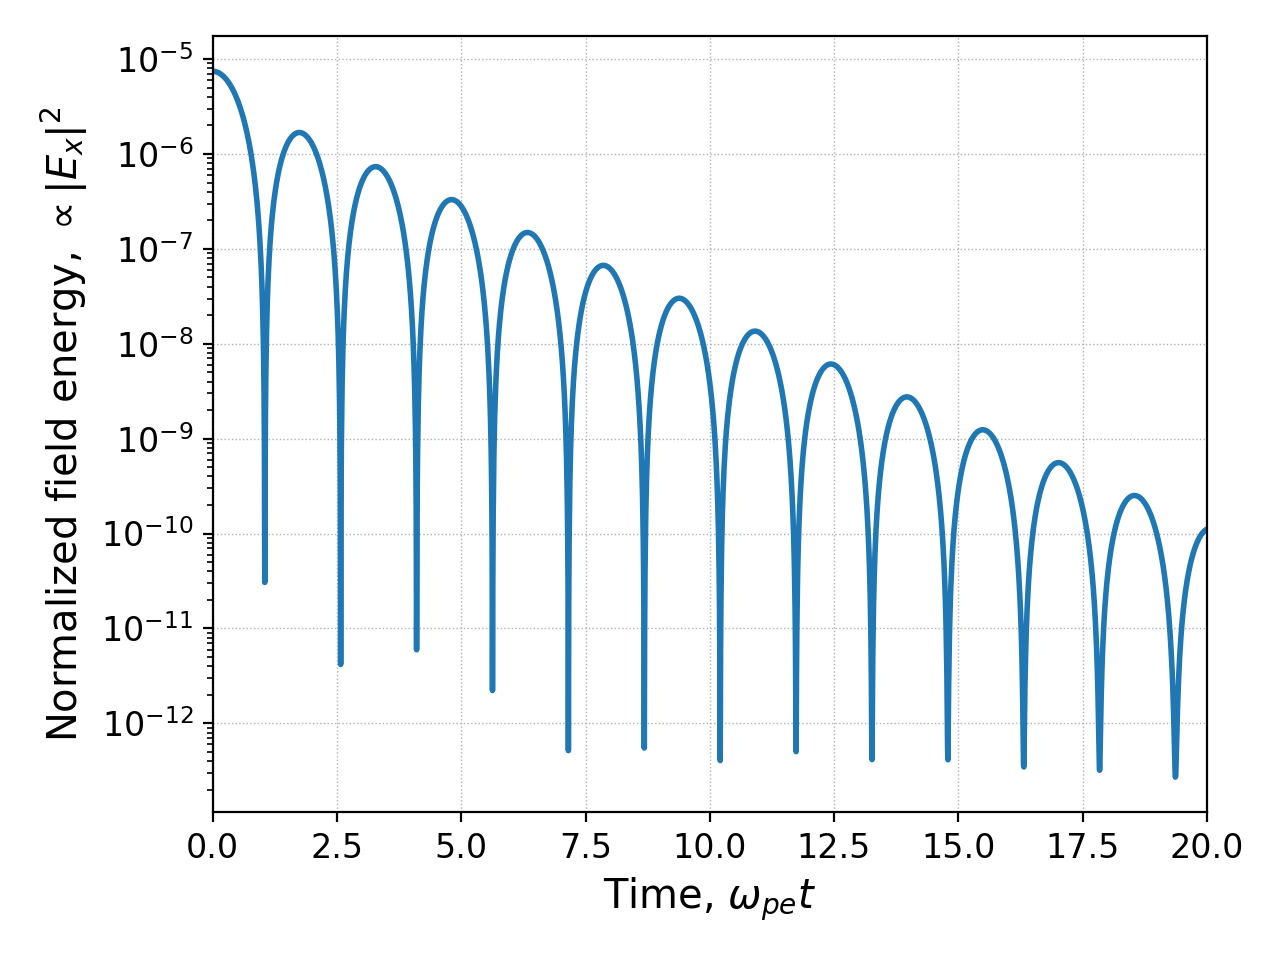
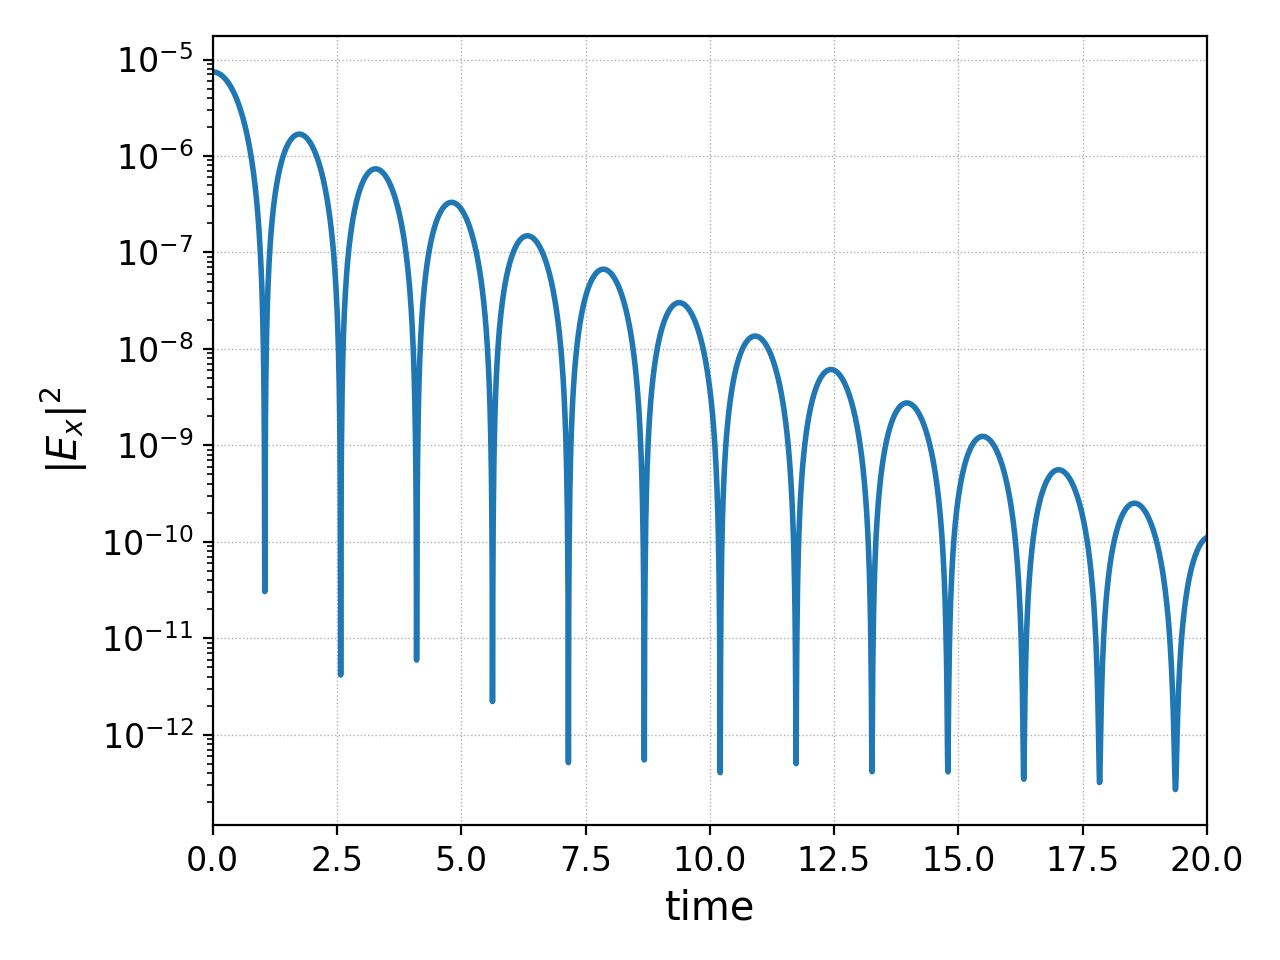
Change post-gkyl part of qs_intro

diff --git a/source/quickstart/introduction.rst b/source/quickstart/introduction.rst
@@ -182,7 +182,8 @@ You should see the program printing to screen like this:
 
 Gkeyll prints a number every 1% of the simulation, and a longer message with the total
 number of time steps taken, the simulation time and the latest time step size every 10%
-of of the simulation. As it progresses it writes out diagnostic files.
+of the simulation. This particular simulation ran in 74 seconds on a 2015 MacBookPro. As
+it progressed it wrote out diagnostic files.
 
 Plotting
 --------
@@ -205,22 +206,22 @@ In order to plot the initial distribution function of the electrons we will use
 
   pgkyl -f vm-damp_elc_0.bp interpolate plot
 
-This produces the 2D plot of the initial Maxwellian distribution given below. The
-:ref:`pg_cmd-plot` command also supports additional flags to add labels.
+This produces the 2D plot of the initial Maxwellian distribution given below.
 
 .. figure:: figures/vm-damp_elc_0.png
    :scale: 40 %
    :align: center
 
-   Initial distribution function, :math:`f_e(x,v,t=0)`.
+   Initial electron distribution function, :math:`f_e(x,v,t=0)`.
 
 We can also examine the electrostatic energy in the simulation. This most clearly
-exhibits the wave energy decaying as the collisionless damping takes effect. For this
-purpose we use the following ``postgkyl`` command:
+exhibits the wave energy decaying as the collisionless damping takes effect. For
+this purpose we use the following ``postgkyl`` command (we :code:`select` the
+x-component, and :ref:`pg_cmd-plot` can use a log scale, as well as add labels):
 
 .. code-block:: bash
 
-  pgkyl -f vm-damp_fieldEnergy.bp select -c0 plot --logy
+  pgkyl -f vm-damp_fieldEnergy.bp select -c0 plot --logy -x 'time' -y '$|E_x|^2$'
 
 resulting in the following figure of the (normalized) electrostatic energy as a
 function of time
@@ -229,7 +230,8 @@ function of time
    :scale: 40 %
    :align: center
 
-   Normalized electrostatic energy as a function of time.
+   Normalized electrostatic field energy :math:`\propto |E_x|^2` as a
+   function of time (normalized to :math:`\omega_{pe}`).
 
 Additional quick-start examples
 -------------------------------
